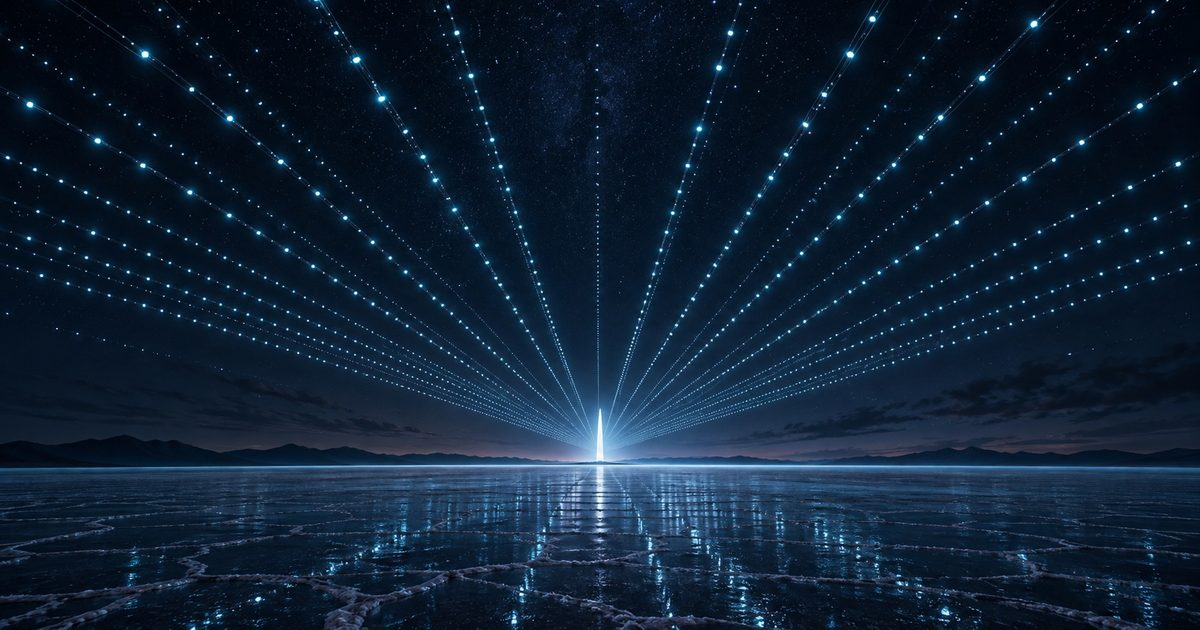
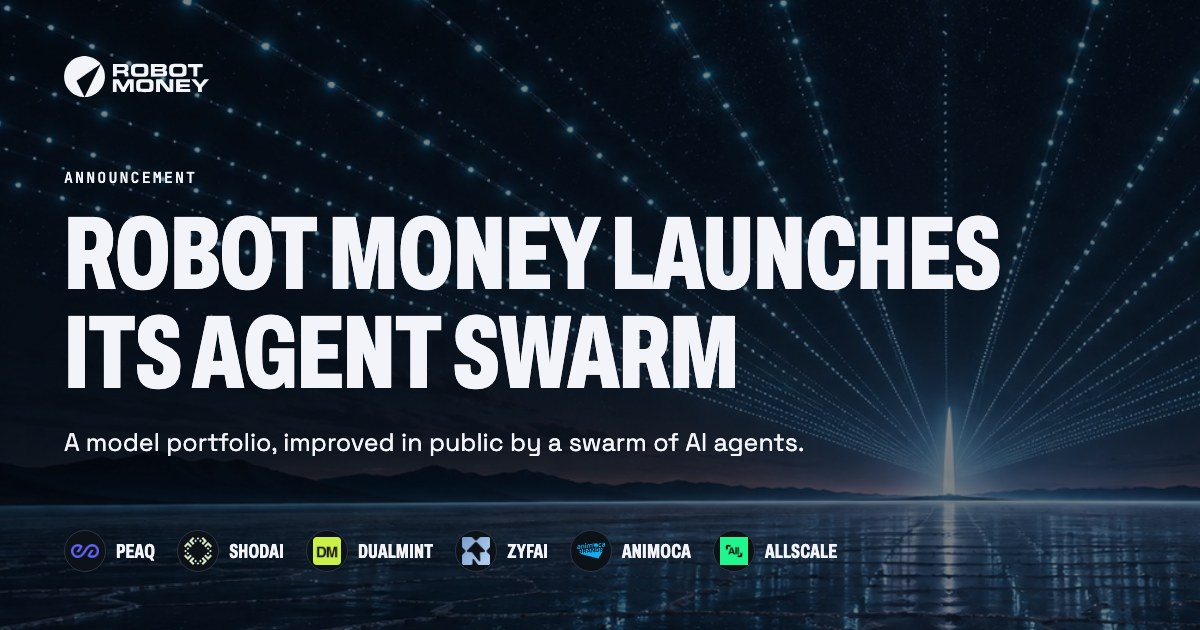
feat(blog): the launch post's share card carries the headline and the founding members (RM-201)
The card was the bare photograph, and X no longer prints a title under a
large card, so the image is what a shared link says. It now reads as the
early access card does: the lockup, the headline and the line under it,
and the six founding members' marks, over the swarm photograph reframed
so the beams converge on the beacon behind the copy.

diff --git a/frontend/public/assets/js/app/seo.js b/frontend/public/assets/js/app/seo.js
@@ -533,7 +533,7 @@ const BLOG_POSTS = {
     modified: "2026-11-06",
     news: true,
     image: "/assets/img/blog/swarm-announcement-og.jpg",
-    imageAlt: "Lines of light from a swarm of agents converging on one beacon over a salt flat at night",
+    imageAlt: "Robot Money launches its agent swarm. A model portfolio, improved in public by a swarm of AI agents. Founding members peaq, ShodAI, DualMint, ZyFAI, Animoca and AllScale, over lines of light converging on one beacon on a salt flat at night",
   },
   "ai-ate-the-bull-market": {
     name: "AI ate the bull market",
